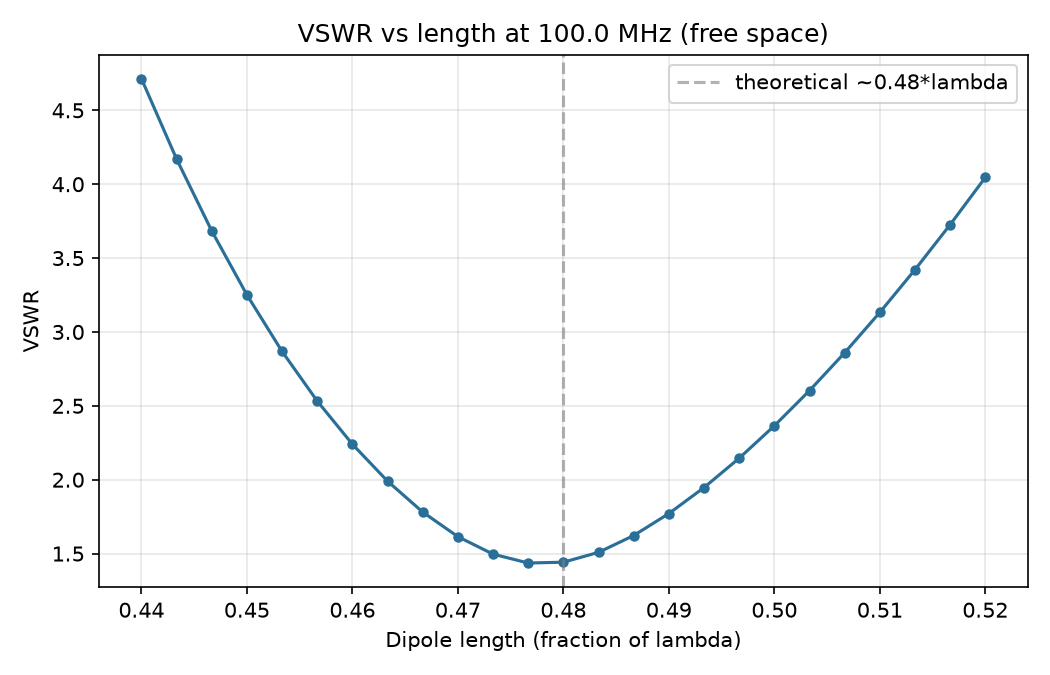
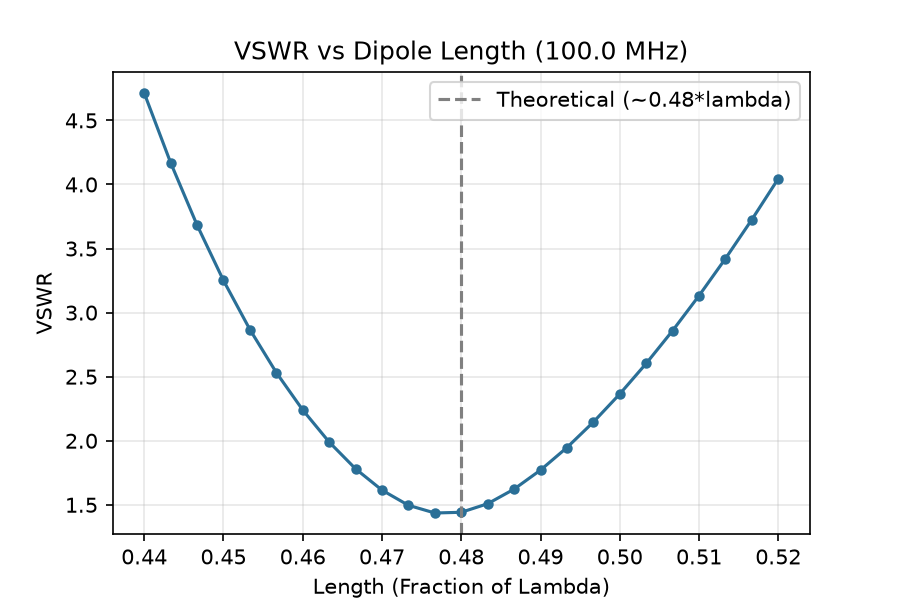
minor edit to the testing code

diff --git a/sanity test/testing_nec.py b/sanity test/testing_nec.py
@@ -36,7 +36,7 @@ def simulate_dipole(length_m, freq_mhz=100.0, wire_radius_m=0.001, z0=50.0, heig
         z = height_m if height_m else 0.25 * (300.0 / freq_mhz)  # default: quarter-wave up
         geo.wire(1, n_segs, -half_len, 0, z, half_len, 0, z, wire_radius_m, 1.0, 1.0)
     else:
-        # Vertical dipole centered at origin, free space (same as before)
+        # Vertical dipole centered at origin, free space
         geo.wire(1, n_segs, 0, 0, -half_len, 0, 0, half_len, wire_radius_m, 1.0, 1.0)
 
     nec.geometry_complete(0)
@@ -68,7 +68,7 @@ def simulate_dipole(length_m, freq_mhz=100.0, wire_radius_m=0.001, z0=50.0, heig
     #
     # IMPORTANT: with real ground present, NEC2 only computes the upper half-space
     # (theta 0-90 deg, i.e. above the horizon) -- points "underground" (theta>90)
-    # are physically meaningless and come back as sentinel/garbage values, so we
+    # are physically meaningless and come back as garbage values, so we
     # must not sweep past 90 deg when ground=True.
     if ground:
         n_theta, d_theta = 19, 5.0   # theta: 0 to 90 deg in 5 deg steps
@@ -84,14 +84,13 @@ def simulate_dipole(length_m, freq_mhz=100.0, wire_radius_m=0.001, z0=50.0, heig
     gamma = abs((impedance - z0) / (impedance + z0))
     vswr = (1 + gamma) / (1 - gamma) if gamma < 0.999 else 999.0
 
-    # --- NEW: pull the radiation pattern and find peak gain ---
+    # pull the radiation pattern and find peak gain
     rp = nec.get_radiation_pattern(0)
     gains_db = rp.get_gain()          # 2D array [theta_index][phi_index], in dBi
     thetas = rp.get_theta_angles()    # degrees
     phis = rp.get_phi_angles()        # degrees
  
-    # -999.99 is NEC2's sentinel for "not computed / invalid point" (e.g. exactly
-    # on the horizon in some configurations); skip it and anything non-finite.
+    # -999.99 is NEC2's sentinel for "not computed / invalid point"
     max_gain = -999.0
     max_theta, max_phi = None, None
     for i, th in enumerate(thetas):
